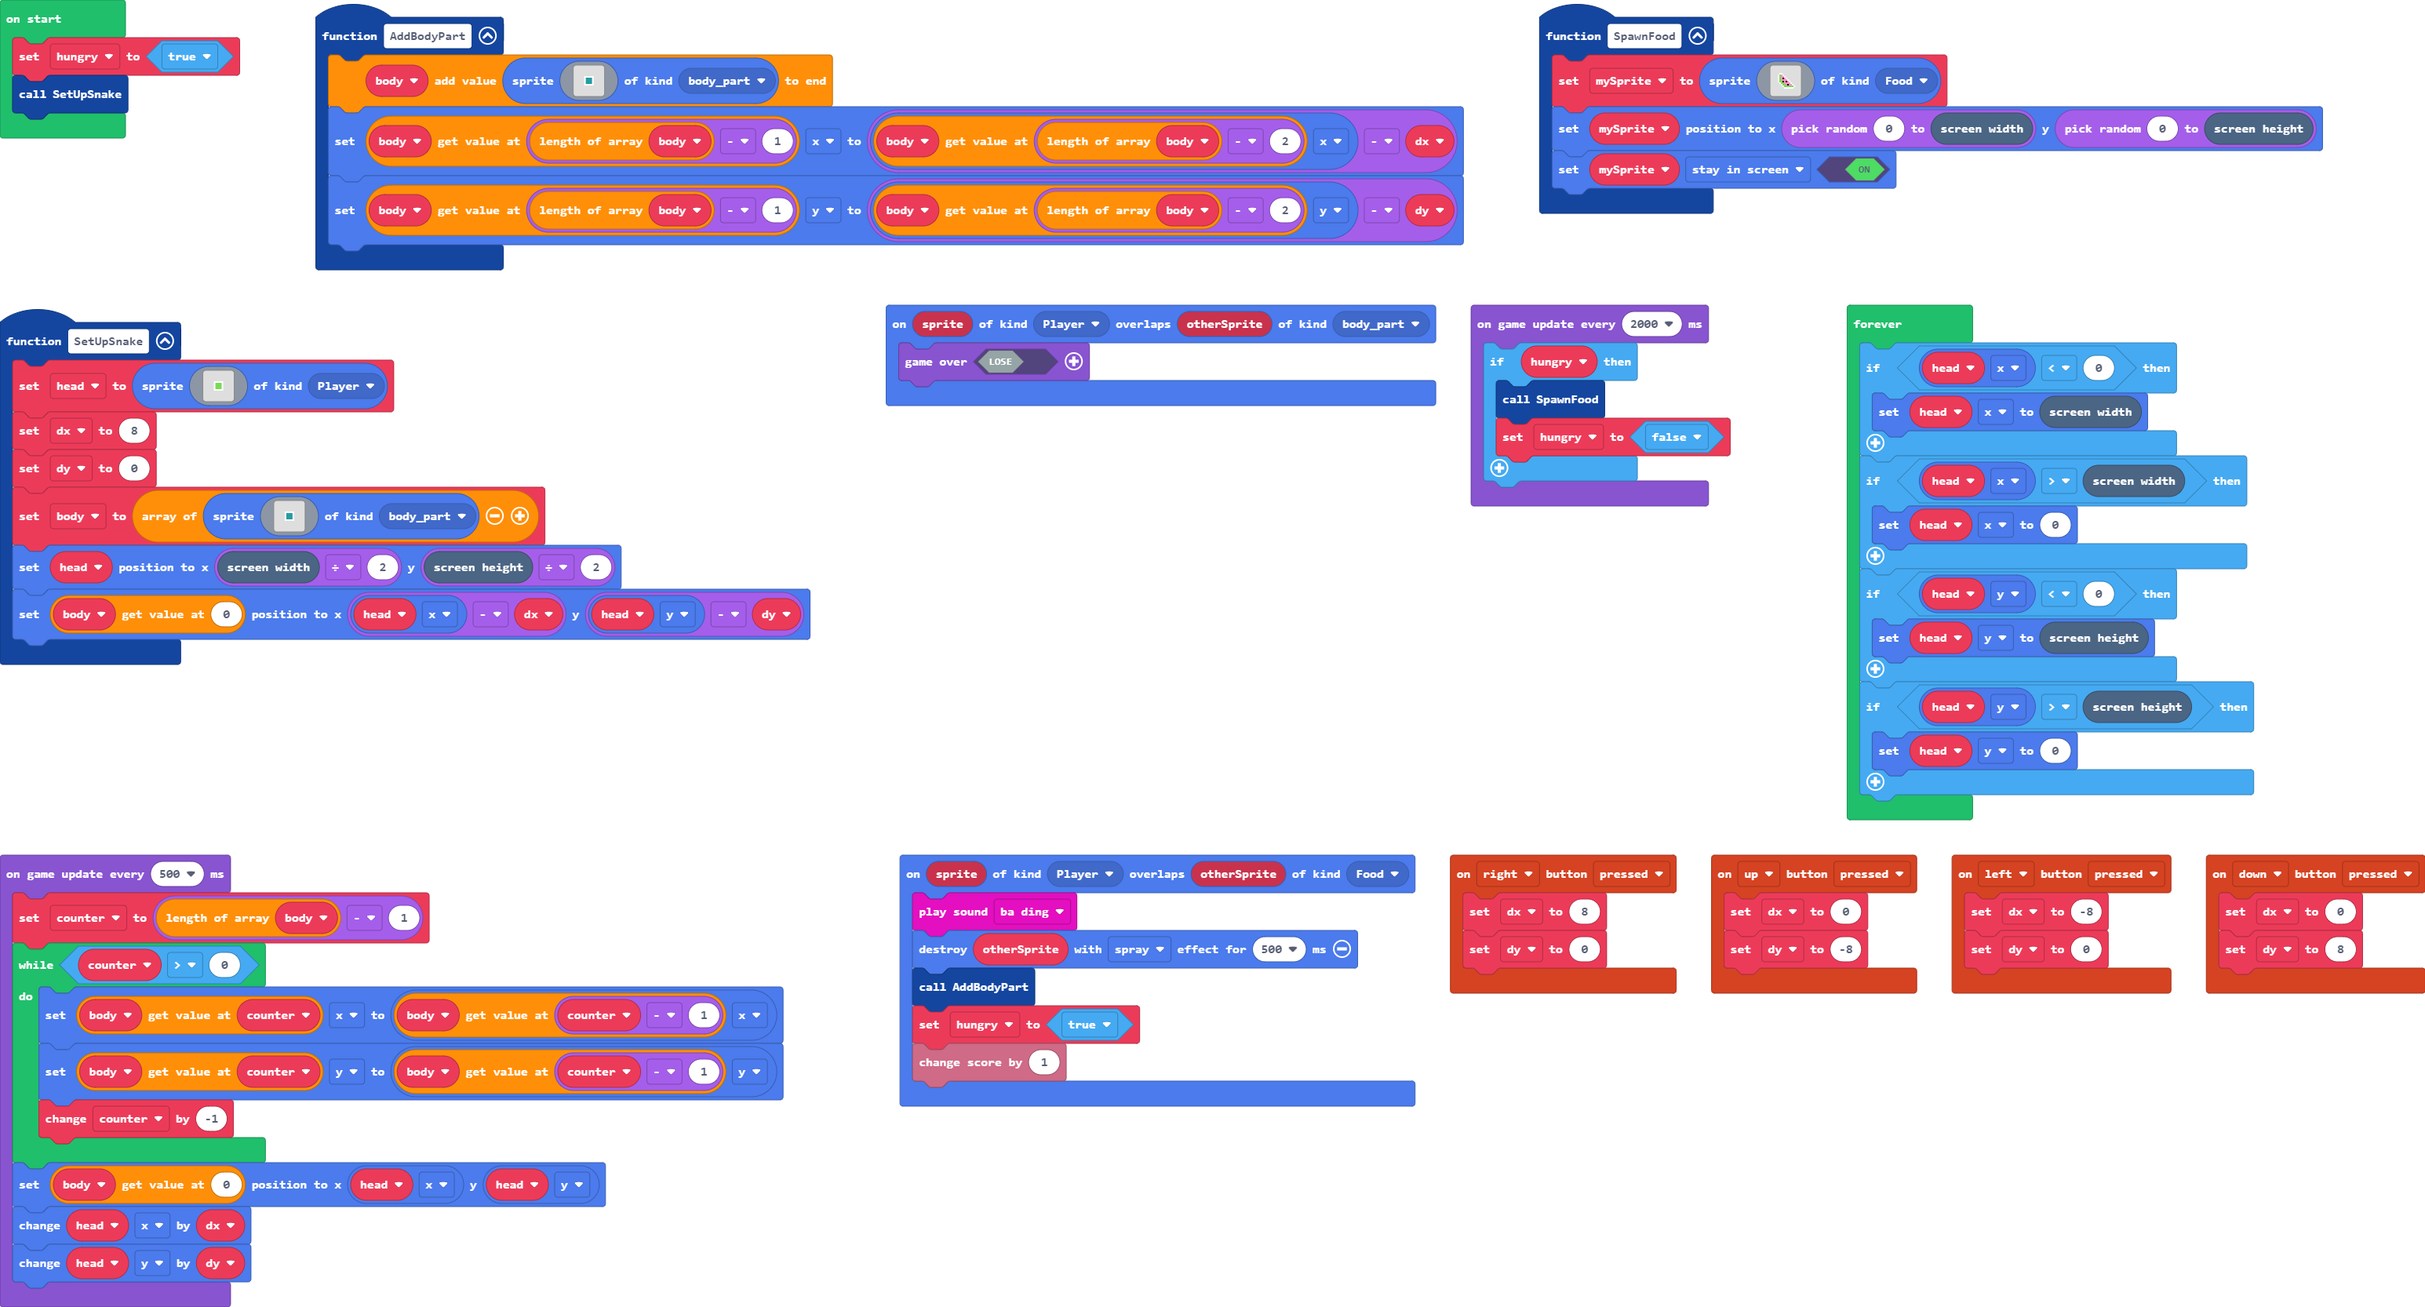
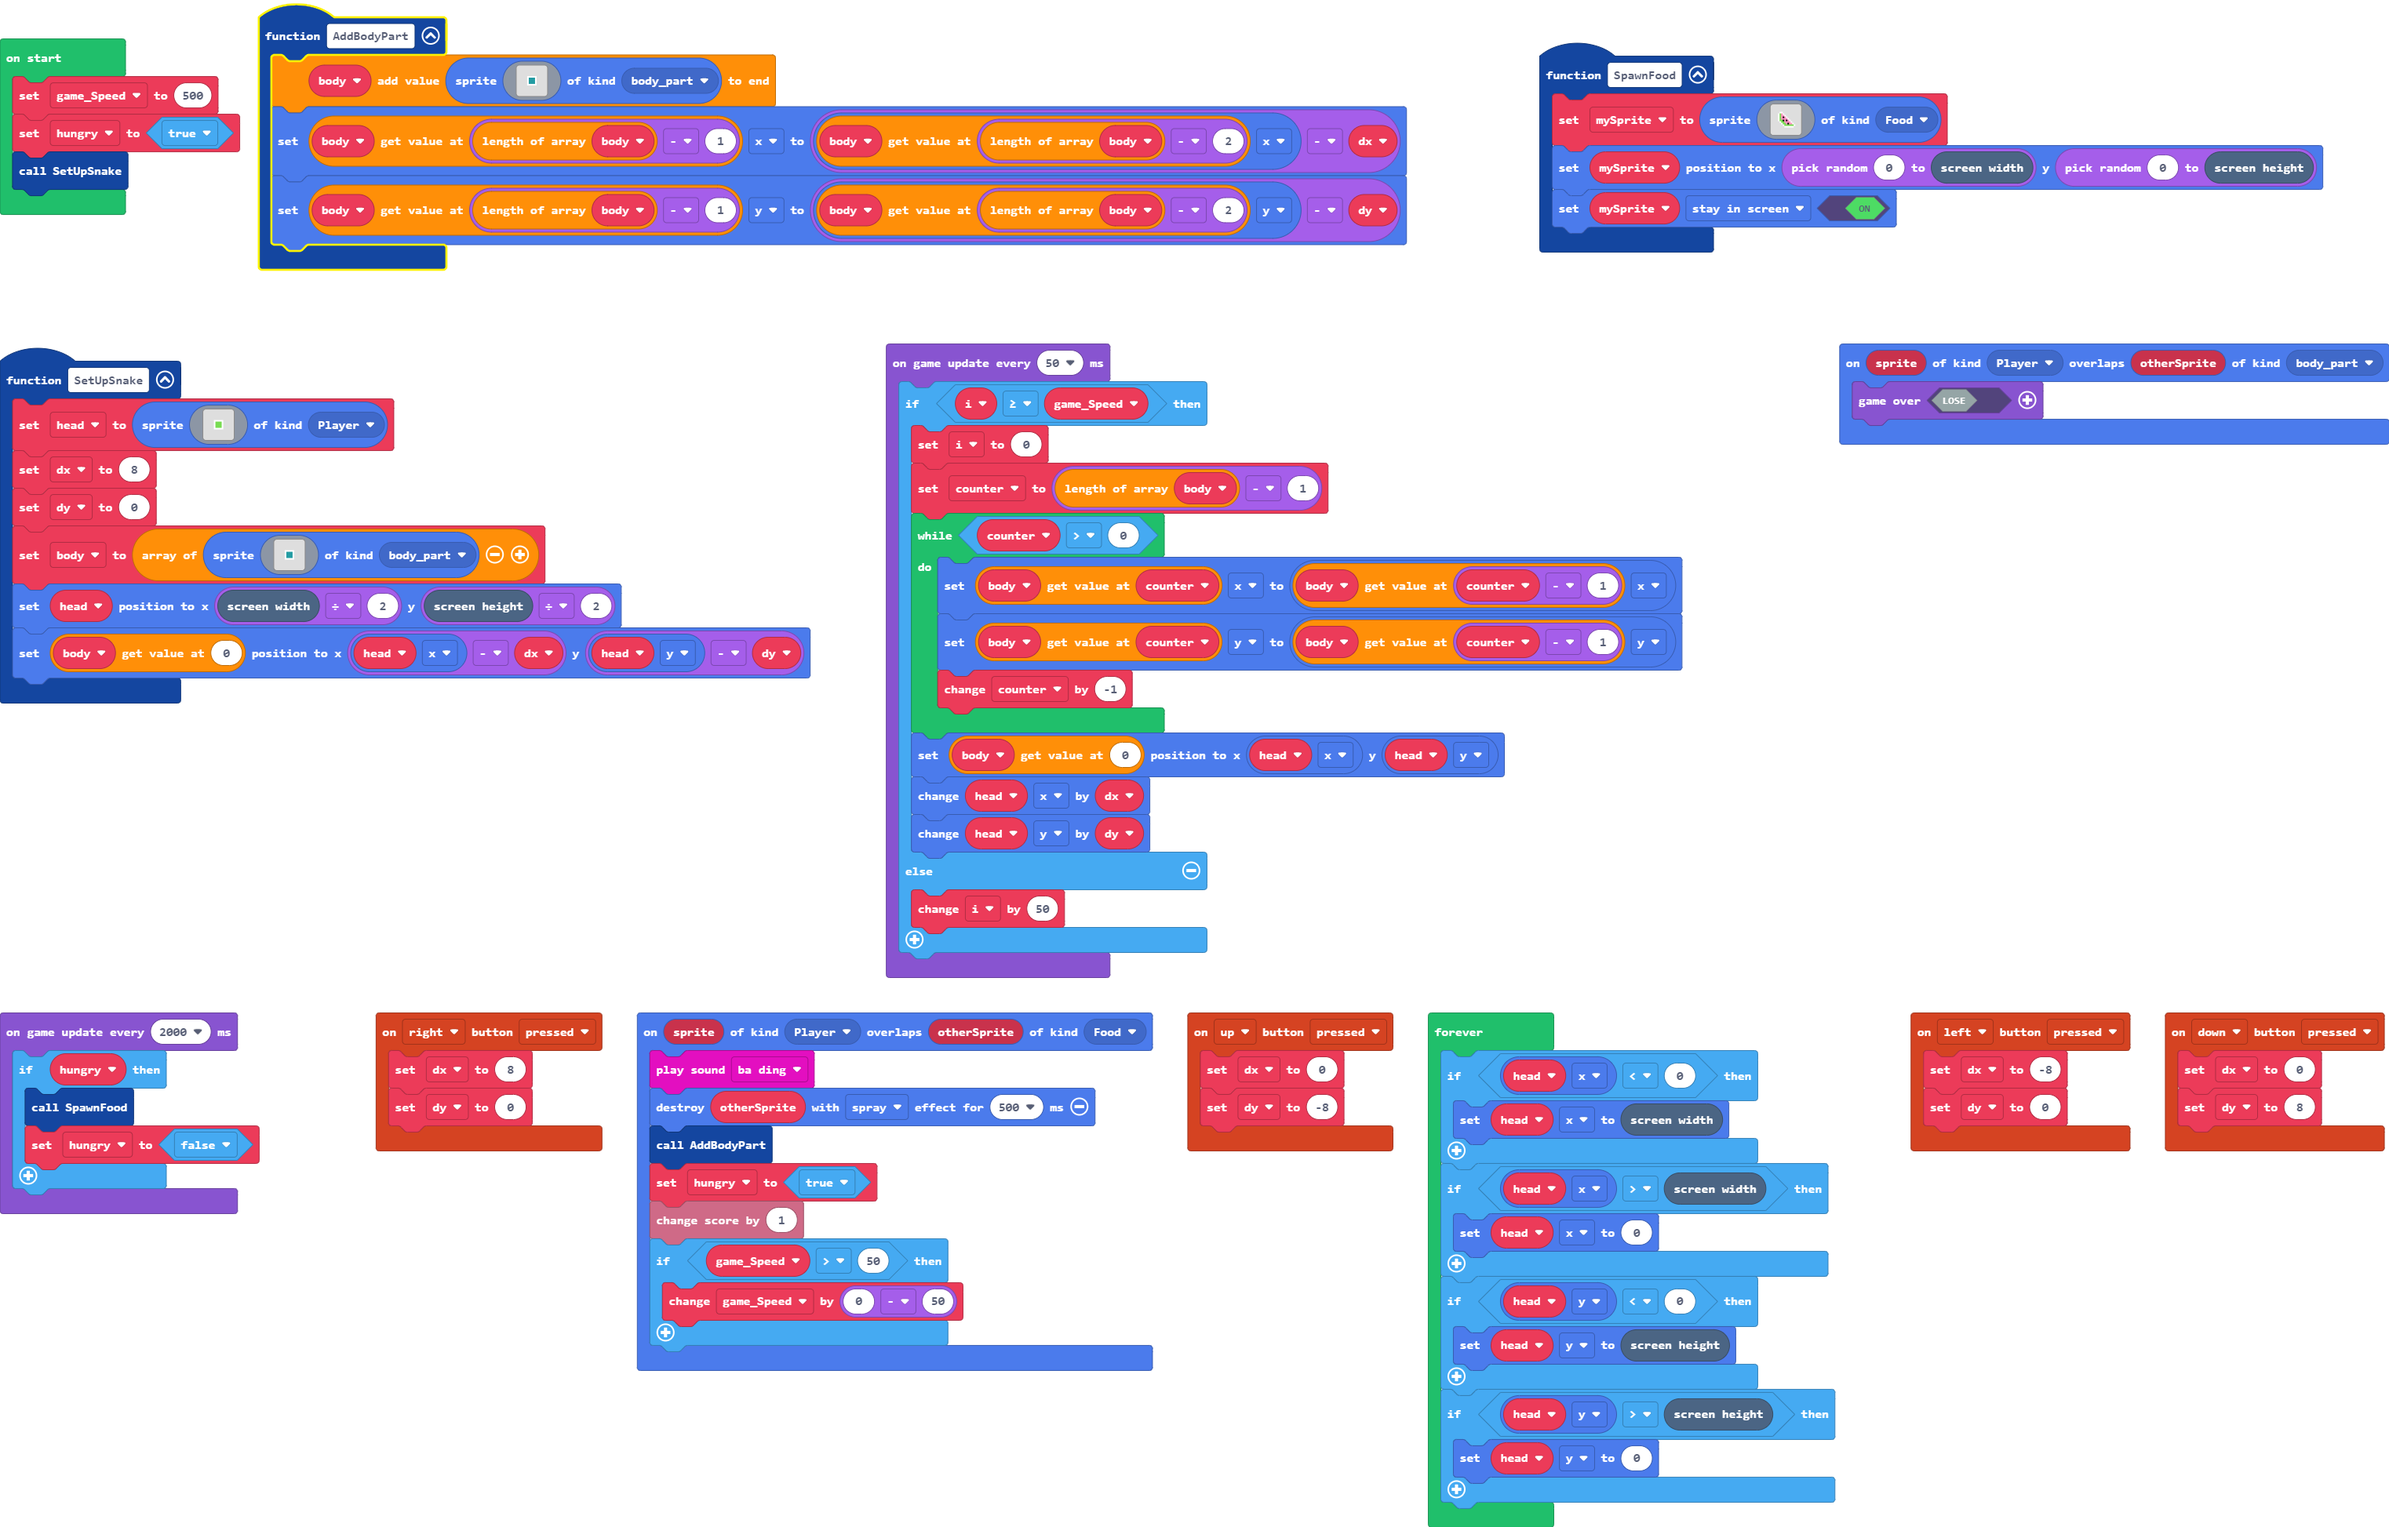
animacie

diff --git a/images.g.ts b/images.g.ts
@@ -3,7 +3,7 @@ namespace myImages {
 
     helpers._registerFactory("image", function(name: string) {
         switch(helpers.stringTrim(name)) {
-            case "image3":return img`
+            case "image13":return img`
 . . . . . . . . . . . . . . . . 
 . . . . . . . . . . . . . . . . 
 . . . . . . . . . . . . . . . . 
@@ -21,7 +21,7 @@ namespace myImages {
 . . . . . . . . . . . . . . . . 
 . . . . . . . . . . . . . . . . 
 `;
-            case "image4":return img`
+            case "image14":return img`
 . . . . . . . . . . . . . . . . 
 . . . . . . . . . . . . . . . . 
 . . . . . . . . . . . . . . . . 
@@ -39,7 +39,7 @@ namespace myImages {
 . . . . . . . . . . . . . . . . 
 . . . . . . . . . . . . . . . . 
 `;
-            case "image5":return img`
+            case "image15":return img`
 . . . . . . . . . . . . . . . . 
 . . . . . . . . . . . . . . . . 
 . . . . . . . . . . . . . . . . 
@@ -57,7 +57,7 @@ namespace myImages {
 . . . . . . . . . . . . . . . . 
 . . . . . . . . . . . . . . . . 
 `;
-            case "image6":return img`
+            case "image16":return img`
 . . . . . . . . . . . . . . . . 
 . . . . . . . . . . . . . . . . 
 . . . . . . . . . . . . . . . . 
@@ -80,56 +80,20 @@ namespace myImages {
 . . . . . . . . . . . . . . . . 
 . . . . . . . . . . . . . . . . 
 . . . . . . . . . . . . . . . . 
-. . . . 5 5 5 5 5 5 5 5 . . . . 
-. . . . 5 5 5 5 5 5 5 5 . . . . 
-. . . . 5 5 f 5 5 f 5 5 . . . . 
-. . . . 5 5 5 5 5 5 5 5 . . . . 
-. . . . 5 5 5 5 5 5 5 5 . . . . 
-. . . . 5 5 5 5 5 5 5 5 . . . . 
-. . . . 5 5 5 2 2 5 5 5 . . . . 
-. . . . 5 5 5 5 2 2 5 5 . . . . 
+. . . . . . . . . . . . . . . . 
+. . . . . 1 1 1 1 1 1 . . . . . 
+. . . . . 1 6 6 6 6 1 . . . . . 
+. . . . . 1 6 6 6 6 1 . . . . . 
+. . . . . 1 6 6 6 6 1 . . . . . 
+. . . . . 1 6 6 6 6 1 . . . . . 
+. . . . . 1 1 1 1 1 1 . . . . . 
+. . . . . . . . . . . . . . . . 
 . . . . . . . . . . . . . . . . 
 . . . . . . . . . . . . . . . . 
 . . . . . . . . . . . . . . . . 
 . . . . . . . . . . . . . . . . 
 `;
             case "image2":return img`
-. . . . . . . . . . . . . . . . 
-. . . . . . . . . . . . . . . . 
-. . . . . . . . . . . . . . . . 
-. . . . . . . e 7 . . . . . . . 
-. . . . . . . e . . . . . . . . 
-. . . . . 2 2 2 2 2 . . . . . . 
-. . . . 2 2 2 2 2 2 2 . . . . . 
-. . . . 2 2 2 2 2 2 2 . . . . . 
-. . . . 2 2 2 2 2 2 2 . . . . . 
-. . . . 2 2 2 2 2 2 2 . . . . . 
-. . . . . 2 2 2 2 2 . . . . . . 
-. . . . . . . . . . . . . . . . 
-. . . . . . . . . . . . . . . . 
-. . . . . . . . . . . . . . . . 
-. . . . . . . . . . . . . . . . 
-. . . . . . . . . . . . . . . . 
-`;
-            case "image7":return img`
-. . . . . . . . . . . . . . . . 
-. . . . . . . . . . . . . . . . 
-. . . . . . . . . . . . . . . . 
-. . . . . . . . . . . . . . . . 
-. . . . . . . . . . . . . . . . 
-. . . . . 1 1 1 1 1 1 . . . . . 
-. . . . . 1 6 6 6 6 1 . . . . . 
-. . . . . 1 6 6 6 6 1 . . . . . 
-. . . . . 1 6 6 6 6 1 . . . . . 
-. . . . . 1 6 6 6 6 1 . . . . . 
-. . . . . 1 1 1 1 1 1 . . . . . 
-. . . . . . . . . . . . . . . . 
-. . . . . . . . . . . . . . . . 
-. . . . . . . . . . . . . . . . 
-. . . . . . . . . . . . . . . . 
-. . . . . . . . . . . . . . . . 
-`;
-            case "image8":return img`
 . . . . . . . . . . . . . . . . 
 . . . . . . . . . . . . . . . . 
 . . . . . . . . . . . . . . . . 
@@ -147,7 +111,7 @@ namespace myImages {
 . . . . . . . . . . . . . . . . 
 . . . . . . . . . . . . . . . . 
 `;
-            case "image9":return img`
+            case "image3":return img`
 . . . . . . . . . . . . . . . . 
 . . . . . . . . . . . . . . . . 
 . . . . . . . . . . . . . . . . 
@@ -165,7 +129,7 @@ namespace myImages {
 . . . . . . . . . . . . . . . . 
 . . . . . . . . . . . . . . . . 
 `;
-            case "image10":return img`
+            case "image4":return img`
 . . . . . . . . . . . . . . . . 
 . . . . . . . . . . . . . . . . 
 . . . . . . . . . . . . . . . . 
@@ -183,37 +147,73 @@ namespace myImages {
 . . . . . . . . . . . . . . . . 
 . . . . . . . . . . . . . . . . 
 `;
-            case "image11":return img`
+            case "image5":return img`
 . . . . . . . . . . . . . . . . 
 . . . . . . . . . . . . . . . . 
 . . . . . . . . . . . . . . . . 
-. . . . . . . e 7 . . . . . . . 
-. . . . . . . e . . . . . . . . 
-. . . . . 2 2 2 2 2 . . . . . . 
-. . . . 2 2 2 2 2 2 2 . . . . . 
-. . . . 2 2 2 2 2 2 2 . . . . . 
-. . . . 2 2 2 2 2 2 2 . . . . . 
-. . . . 2 2 2 2 2 2 2 . . . . . 
-. . . . . 2 2 2 2 2 . . . . . . 
+. . . . . . . . . . . . . . . . 
+. . . . . . . . . . . . . . . . 
+. . . . . 1 1 1 1 1 1 . . . . . 
+. . . . . 1 6 6 6 6 1 . . . . . 
+. . . . . 1 6 6 6 6 1 . . . . . 
+. . . . . 1 6 6 6 6 1 . . . . . 
+. . . . . 1 6 6 6 6 1 . . . . . 
+. . . . . 1 1 1 1 1 1 . . . . . 
 . . . . . . . . . . . . . . . . 
 . . . . . . . . . . . . . . . . 
 . . . . . . . . . . . . . . . . 
 . . . . . . . . . . . . . . . . 
 . . . . . . . . . . . . . . . . 
 `;
-            case "image12":return img`
+            case "image6":return img`
+. . . . . . . . . . . . . . . . 
+. . . . . . . . . . . . . . . . 
+. . . . . . . . . . . . . . . . 
+. . . . 1 1 . . . . . . . . . . 
+. . . 1 7 3 1 . . . . . . . . . 
+. . . 1 7 3 3 1 . . . . . . . . 
+. . . 1 7 3 f 3 1 . . . . . . . 
+. . . 1 7 3 3 3 3 1 . . . . . . 
+. . . 1 7 7 f 3 f 3 1 . . . . . 
+. . . . 1 7 7 3 3 3 3 1 . . . . 
+. . . . . 1 7 7 3 f 3 3 1 . . . 
+. . . . . . 1 7 7 7 7 7 7 1 . . 
+. . . . . . . 1 1 1 1 1 1 . . . 
+. . . . . . . . . . . . . . . . 
+. . . . . . . . . . . . . . . . 
+. . . . . . . . . . . . . . . . 
+`;
+            case "image7":return img`
 . . . . . . . . . . . . . . . . 
 . . . . . . . . . . . . . . . . 
 . . . . . . . . . . . . . . . . 
 . . . . . . . . . . . . . . . . 
-. . . . 5 5 5 5 5 5 5 5 . . . . 
-. . . . 5 5 5 5 5 5 5 5 . . . . 
-. . . . 5 5 f 5 5 f 5 5 . . . . 
-. . . . 5 5 5 5 5 5 5 5 . . . . 
-. . . . 5 5 5 5 5 5 5 5 . . . . 
-. . . . 5 5 5 5 5 5 5 5 . . . . 
-. . . . 5 5 5 2 2 5 5 5 . . . . 
-. . . . 5 5 5 5 2 2 5 5 . . . . 
+. . . . . . . . . . . . . . . . 
+. . . . . 1 1 1 1 1 1 . . . . . 
+. . . . . 1 7 7 7 7 1 . . . . . 
+. . . . . 1 7 7 7 7 1 . . . . . 
+. . . . . 1 7 7 7 7 1 . . . . . 
+. . . . . 1 7 7 7 7 1 . . . . . 
+. . . . . 1 1 1 1 1 1 . . . . . 
+. . . . . . . . . . . . . . . . 
+. . . . . . . . . . . . . . . . 
+. . . . . . . . . . . . . . . . 
+. . . . . . . . . . . . . . . . 
+. . . . . . . . . . . . . . . . 
+`;
+            case "image8":return img`
+. . . . . . . . . . . . . . . . 
+. . . . . . . . . . . . . . . . 
+. . . . . . . . . . . . . . . . 
+. . . . . . . . . . . . . . . . 
+. . . . . . . . . . . . . . . . 
+. . . . . 1 1 1 1 1 1 . . . . . 
+. . . . . 1 6 6 6 6 1 . . . . . 
+. . . . . 1 6 6 6 6 1 . . . . . 
+. . . . . 1 6 6 6 6 1 . . . . . 
+. . . . . 1 6 6 6 6 1 . . . . . 
+. . . . . 1 1 1 1 1 1 . . . . . 
+. . . . . . . . . . . . . . . . 
 . . . . . . . . . . . . . . . . 
 . . . . . . . . . . . . . . . . 
 . . . . . . . . . . . . . . . . 

diff --git a/main.ts b/main.ts
@@ -109,19 +109,41 @@ sprites.onOverlap(SpriteKind.Player, SpriteKind.Food, function (sprite, otherSpr
     AddBodyPart()
     hungry = true
     info.changeScoreBy(1)
+    if (game_Speed > 50) {
+        game_Speed += 0 - 50
+    }
 })
 sprites.onOverlap(SpriteKind.Player, SpriteKind.body_part, function (sprite, otherSprite) {
     game.over(false)
 })
 let counter = 0
+let i = 0
 let head: Sprite = null
 let mySprite: Sprite = null
 let body: Sprite[] = []
 let dy = 0
 let dx = 0
 let hungry = false
+let game_Speed = 0
+game_Speed = 500
 hungry = true
 SetUpSnake()
+game.onUpdateInterval(50, function () {
+    if (i >= game_Speed) {
+        i = 0
+        counter = body.length - 1
+        while (counter > 0) {
+            body[counter].x = body[counter - 1].x
+            body[counter].y = body[counter - 1].y
+            counter += -1
+        }
+        body[0].setPosition(head.x, head.y)
+        head.x += dx
+        head.y += dy
+    } else {
+        i += 50
+    }
+})
 game.onUpdateInterval(2000, function () {
     if (hungry) {
         SpawnFood()
@@ -141,15 +163,4 @@ forever(function () {
     if (head.y > scene.screenHeight()) {
         head.y = 0
     }
-})
-game.onUpdateInterval(500, function () {
-    counter = body.length - 1
-    while (counter > 0) {
-        body[counter].x = body[counter - 1].x
-        body[counter].y = body[counter - 1].y
-        counter += -1
-    }
-    body[0].setPosition(head.x, head.y)
-    head.x += dx
-    head.y += dy
 })
